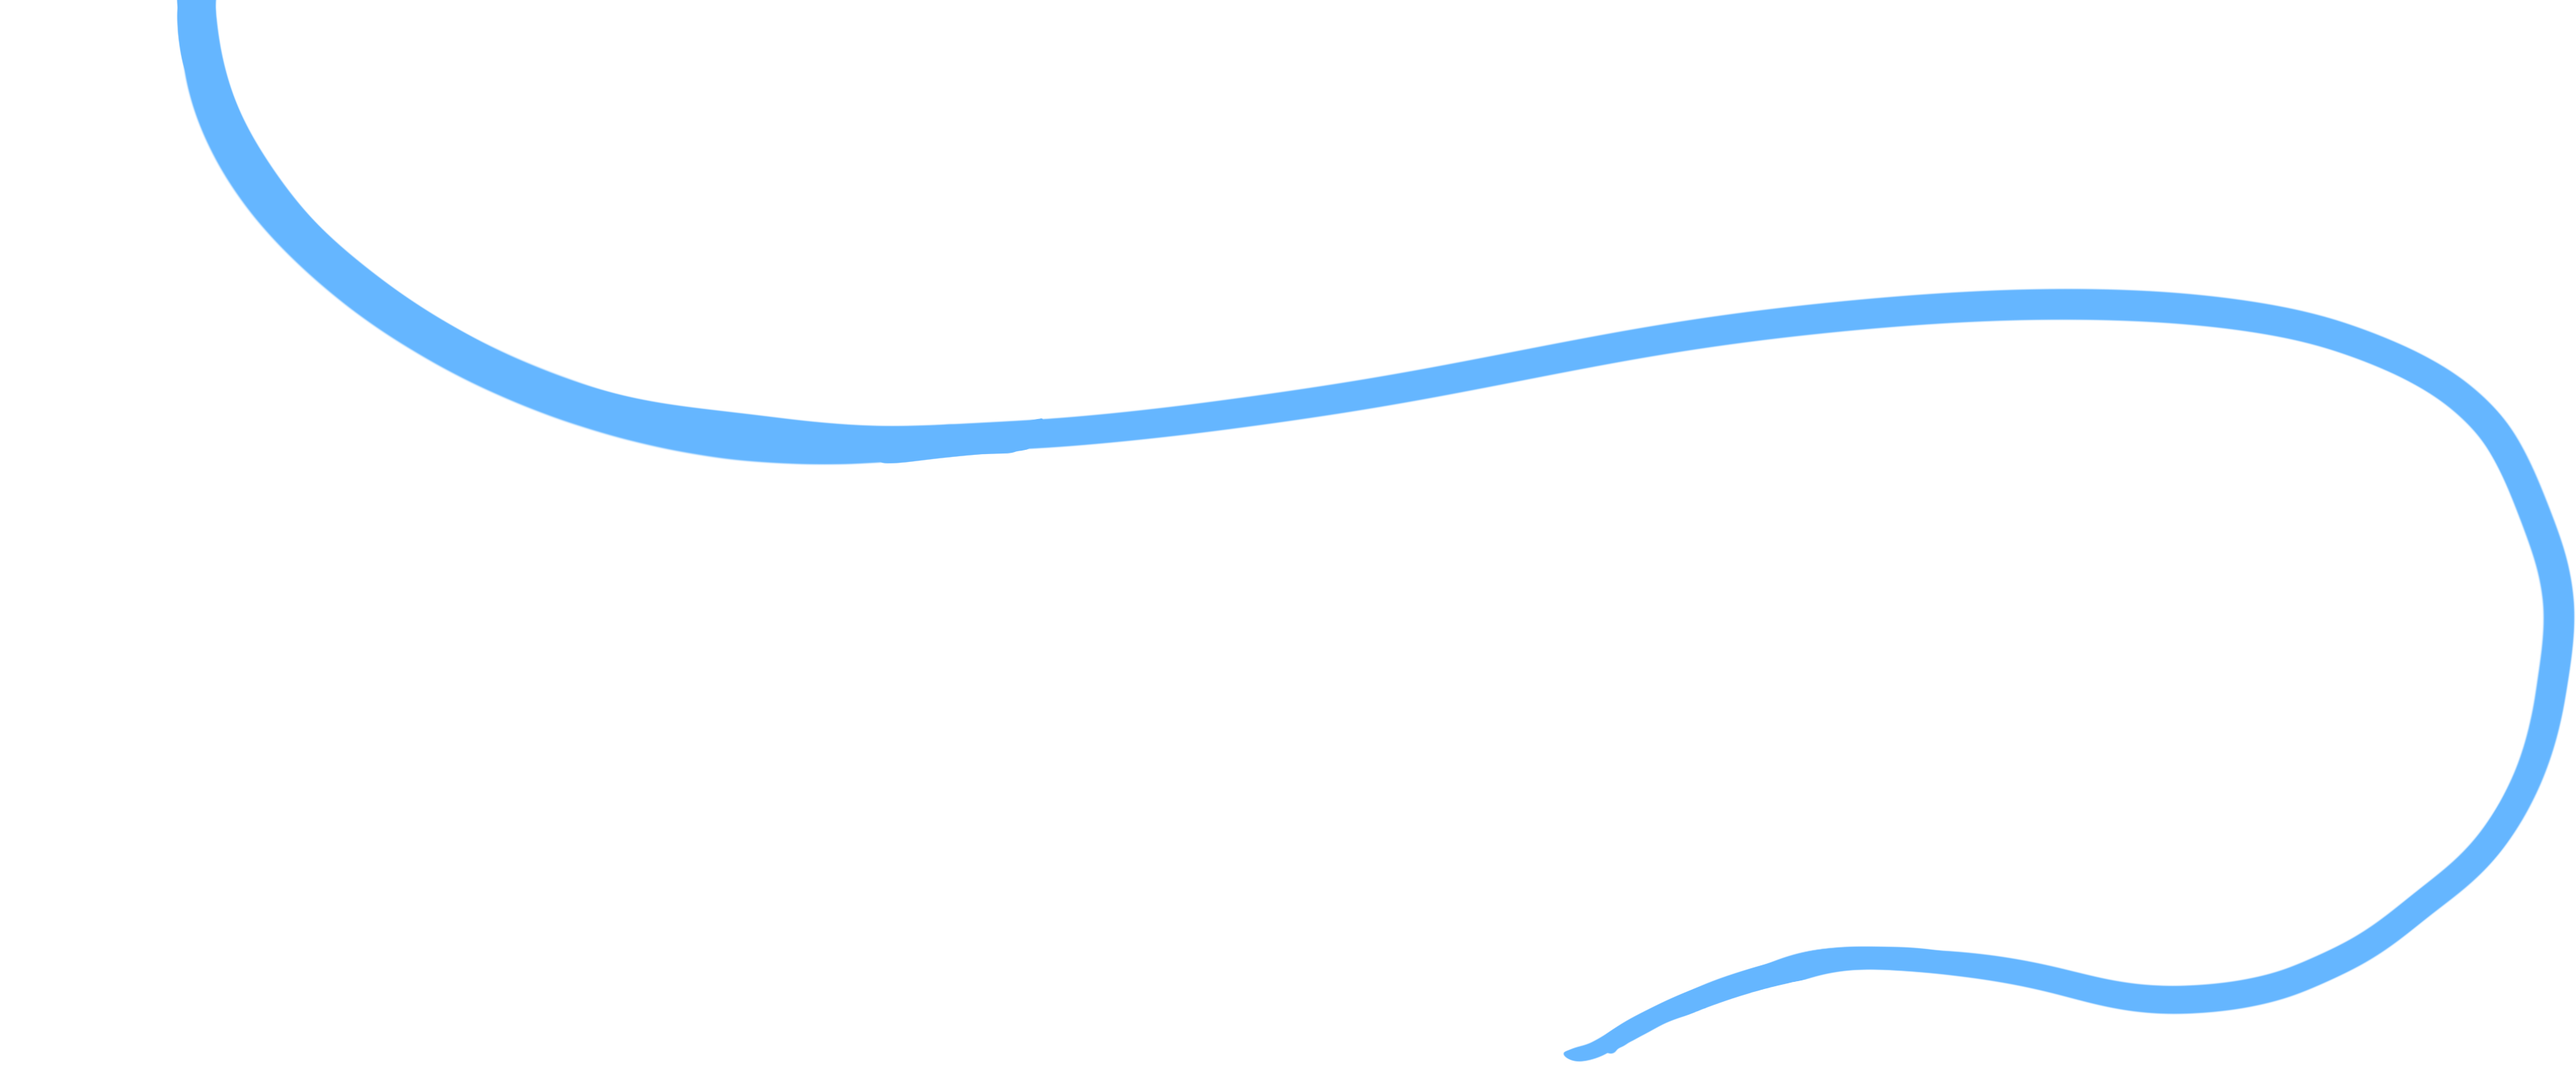
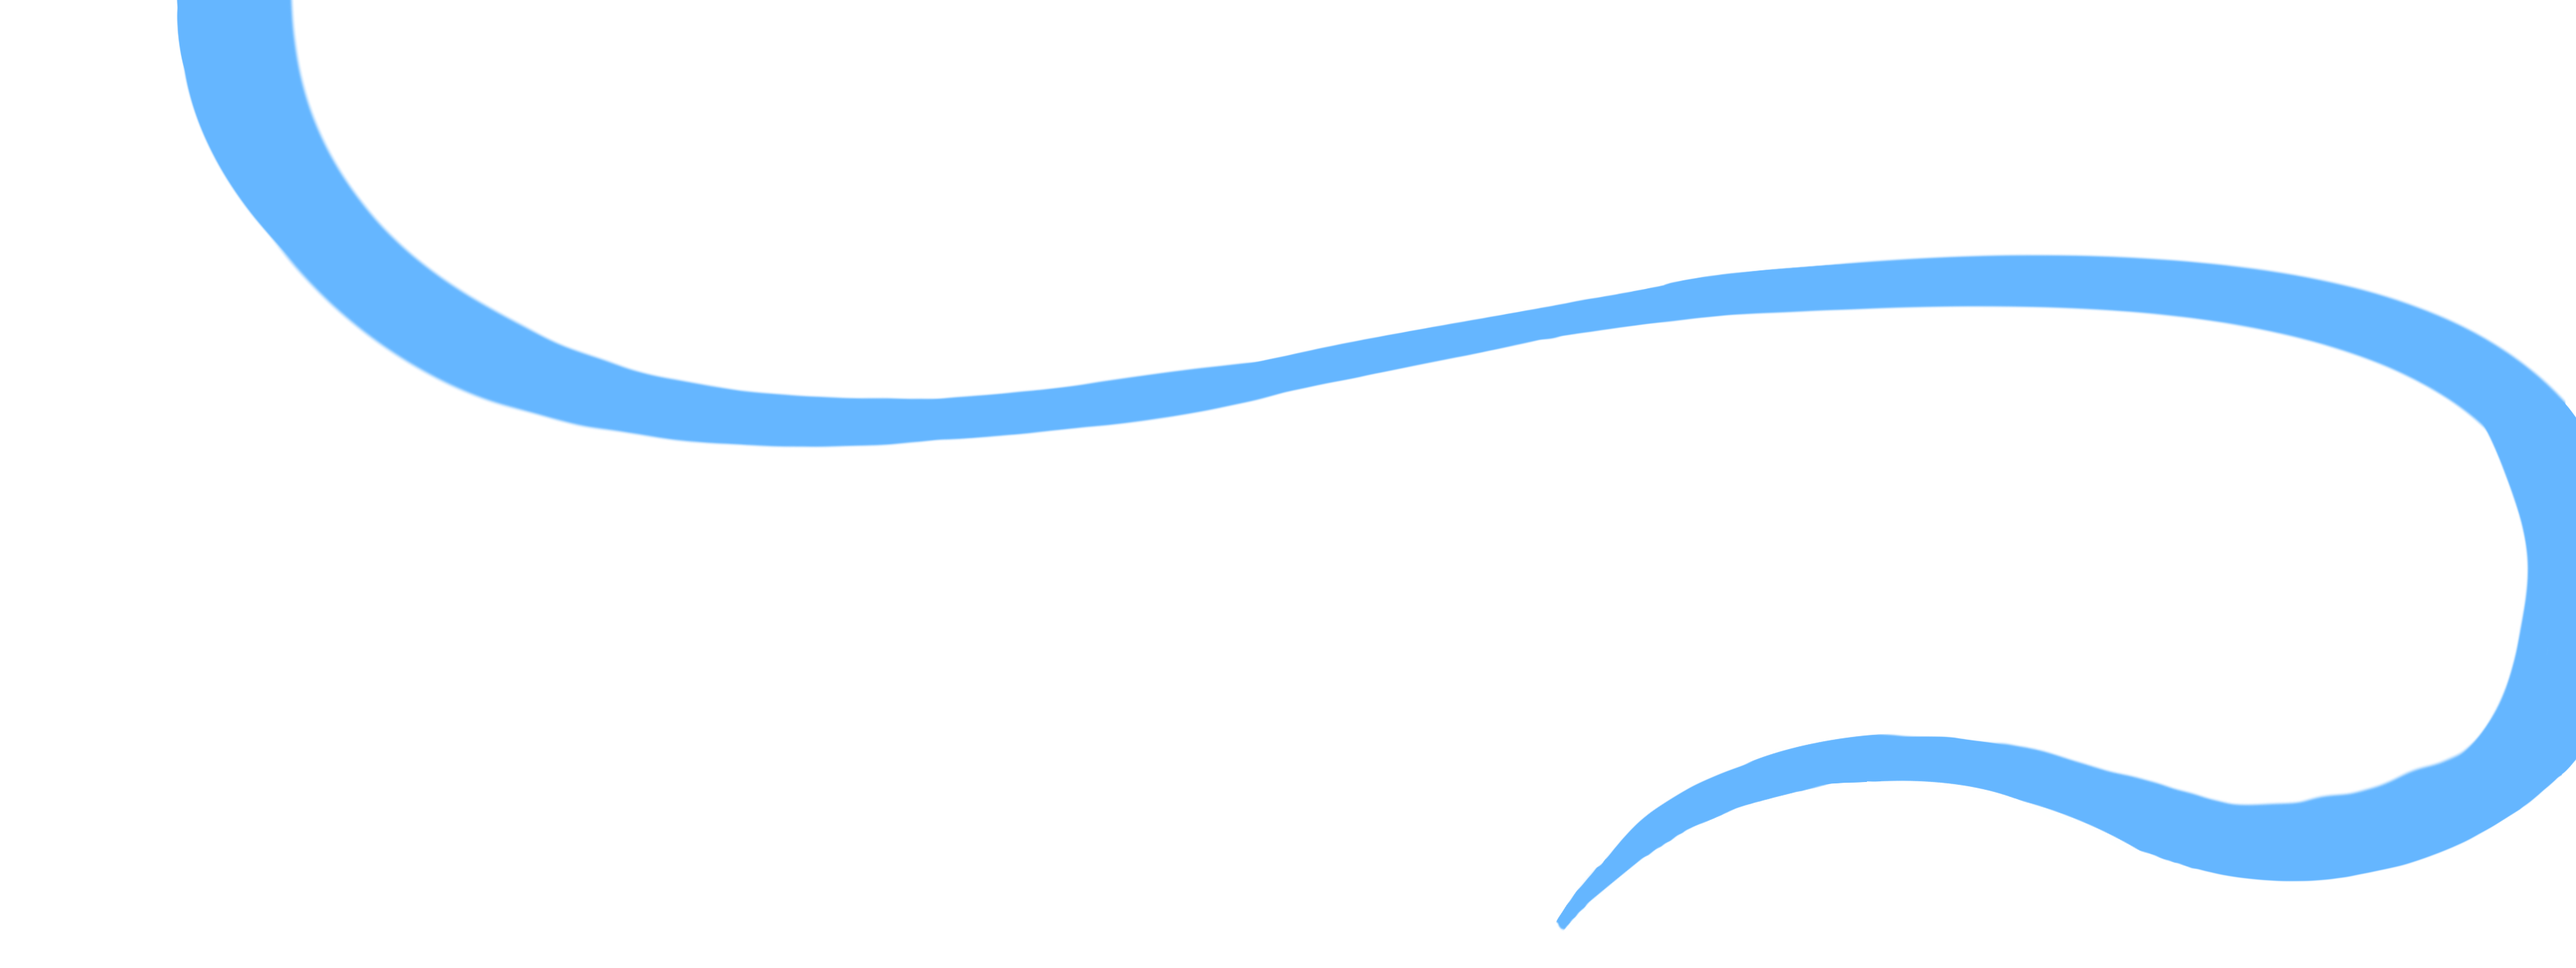
system js and asset

Changed region(s): [[0.5911, 0.2483, 1.0, 0.9933], [0.0622, 0.0, 0.6222, 0.4656]]

diff --git a/Self_System/script.js b/Self_System/script.js
@@ -1,19 +1,22 @@
 let inputText;      // input field where user types a number
-let category;       // dropdown to select "romantic" or "sad"
+let category;       // dropdown to select "romantic", "sad", "happy"
 
 let heart;          // heart image
 let droplet;        // droplet/square image
+let sun;            // sun image
 
 let redBkg, blueBkg;       // background images
 let redLine, redGlow;      // red line and glow
 let blueLine, blueGlow;    // blue line and glow
+let yellowLine, yellowGlow; // yellow line and glow
 
-let activeLine = "red";    // current page ("red" or "blue")
+let activeLine = "red";    // current page ("red", "blue", "yellow")
 
-// Stores data for red and blue pages
+// Stores data for red, blue, yellow pages
 let data = {
-  red: { heartTotal: 0, squareTotal: 0, bigHearts: [], smallHearts: [], bigDroplet: [], smallDroplet: [] },
-  blue: { heartTotal: 0, squareTotal: 0, bigHearts: [], smallHearts: [], bigDroplet: [], smallDroplet: [] }
+  red:    { heartTotal: 0, squareTotal: 0, bigHearts: [], smallHearts: [], bigDroplet: [], smallDroplet: [], bigSun: [], smallSun: [] },
+  blue:   { heartTotal: 0, squareTotal: 0, bigHearts: [], smallHearts: [], bigDroplet: [], smallDroplet: [], bigSun: [], smallSun: [] },
+  yellow: { heartTotal: 0, squareTotal: 0, bigHearts: [], smallHearts: [], bigDroplet: [], smallDroplet: [], bigSun: [], smallSun: [] }
 };
 
 function preload() {
@@ -25,8 +28,13 @@ function preload() {
   blueLine = loadImage("../asset/system/blue.PNG");
   blueGlow = loadImage("../asset/system/blueGlow.PNG");
 
+  yellowLine = loadImage("../asset/system/yellow.PNG");
+  yellowGlow = loadImage("../asset/system/yellowGlow.PNG");
+  yellowBkg= loadImage("../asset/system/yellowBkg.JPG")
+
   heart = loadImage("../asset/system/heart.webp");
   droplet = loadImage("../asset/system/droplet.webp");
+  sun = loadImage("../asset/system/sun.PNG"); // add your sun asset
 }
 
 function setup() {
@@ -36,16 +44,16 @@ function setup() {
   category = createSelect();
   category.option("romantic");
   category.option("sad");
-  category.position(950, height / 2.4);
+  category.option("happy"); // new category
+  category.position(980, height / 2.4);
   category.style('font-size', '18px');
   category.style('border-radius', '10px');
-  category.style('border', '2px solid #333');
   category.style('background-color', 'lightblue');
 
   // Input box
   inputText = createInput();
   inputText.size(110, 30);
-  inputText.position(950, height / 2.2);
+  inputText.position(970, height / 2.2);
   inputText.style('background-color', '#F7C9C0');
   inputText.style('border', '2px solid #A3BFD9');
   inputText.style('color', '#7A9BAE');
@@ -53,43 +61,50 @@ function setup() {
   inputText.style('border-radius', '10px');
 
   // Load totals from localStorage
-  data.red.heartTotal = Number(localStorage.getItem('red_heartTotal')) || 0;
-  data.red.squareTotal = Number(localStorage.getItem('red_squareTotal')) || 0;
-  data.blue.heartTotal = Number(localStorage.getItem('blue_heartTotal')) || 0;
-  data.blue.squareTotal = Number(localStorage.getItem('blue_squareTotal')) || 0;
+  for (let key of ["red", "blue", "yellow"]) {
+    data[key].heartTotal = Number(localStorage.getItem(`${key}_heartTotal`)) || 0;
+    data[key].squareTotal = Number(localStorage.getItem(`${key}_squareTotal`)) || 0;
+    data[key].sunTotal = Number(localStorage.getItem(`${key}_sunTotal`)) || 0;
 
-  // Initialize heart and droplet positions
-  updateHeartPositions(data.red);
-  updateDropletPositions(data.red);
-  updateHeartPositions(data.blue);
-  updateDropletPositions(data.blue);
+    updateHeartPositions(data[key]);
+    updateDropletPositions(data[key]);
+    updateSunPositions(data[key]);
+  }
 }
 
 function draw() {
   let page = data[activeLine];
 
-  // Background
-  background(activeLine === "red" ? redBkg : blueBkg);
+  // Backgrounds
+  if (activeLine === "red") background(redBkg);
+  if (activeLine === "blue") background(blueBkg);
+  if (activeLine === "yellow") background(yellowBkg); // placeholder if no image
 
   // Red line
-  if (page.heartTotal > page.squareTotal) {
+  if (page.heartTotal > page.squareTotal && page.heartTotal > (page.sunTotal || 0)) {
     image(redGlow, 0, 0, width, height / 1.9);
   } else {
     image(redLine, 0, 0, width, height / 1.9);
   }
 
   // Blue line
-  if (page.squareTotal > page.heartTotal) {
-    image(blueGlow, 0, 0, width, height / 1.8);
+  if (page.squareTotal > page.heartTotal && page.squareTotal > (page.sunTotal || 0)) {
+    image(blueGlow, 0, 0, width, height / 2);
   } else {
-    image(blueLine, 0, 0, width, height / 2.2);
+    image(blueLine, 0, 0, width, height / 2);
+  }
+
+  // Yellow line
+  if ((page.sunTotal || 0) > page.heartTotal && (page.sunTotal || 0) > page.squareTotal) {
+    image(yellowGlow, 0, 0, width, height / 2.5);
+  } else {
+    image(yellowLine, 0, 0, width, height / 2.5);
   }
 
   // Draw big hearts
   for (let pos of page.bigHearts) {
     image(heart, pos.x, pos.y, 100, 100);
   }
-
   // Draw small hearts
   for (let pos of page.smallHearts) {
     image(heart, pos.x, pos.y, 40, 40);
@@ -99,10 +114,18 @@ function draw() {
   for (let pos of page.bigDroplet) {
     image(droplet, pos.x, pos.y, 100, 100);
   }
-
   // Draw small droplets
   for (let pos of page.smallDroplet) {
     image(droplet, pos.x, pos.y, 40, 40);
+  }
+
+  // Draw big suns
+  for (let pos of page.bigSun) {
+    image(sun, pos.x, pos.y, 150, 150);
+  }
+  // Draw small suns
+  for (let pos of page.smallSun) {
+    image(sun, pos.x, pos.y, 60, 60);
   }
 }
 
@@ -110,33 +133,29 @@ function keyPressed() {
   if (keyCode === ENTER) {
     submit(); // add input
   } else if (key === " ") {
-    activeLine = activeLine === "red" ? "blue" : "red"; // switch pages
-  } else if (key === "C" || key === "c") {  // press C to clear all
-    // Reset data in memory
-    data.red.heartTotal = 0;
-    data.red.squareTotal = 0;
-    data.red.bigHearts = [];
-    data.red.smallHearts = [];
-    data.red.bigDroplet = [];
-    data.red.smallDroplet = [];
-
-    data.blue.heartTotal = 0;
-    data.blue.squareTotal = 0;
-    data.blue.bigHearts = [];
-    data.blue.smallHearts = [];
-    data.blue.bigDroplet = [];
-    data.blue.smallDroplet = [];
-
-    // Clear localStorage
-    localStorage.removeItem('red_heartTotal');
-    localStorage.removeItem('red_squareTotal');
-    localStorage.removeItem('blue_heartTotal');
-    localStorage.removeItem('blue_squareTotal');
-
+    // cycle pages red -> blue -> yellow
+    if (activeLine === "red") activeLine = "blue";
+    else if (activeLine === "blue") activeLine = "yellow";
+    else activeLine = "red";
+  } else if (key === "C" || key === "c") {
+    // Reset all
+    for (let key of ["red", "blue", "yellow"]) {
+      data[key].heartTotal = 0;
+      data[key].squareTotal = 0;
+      data[key].sunTotal = 0;
+      data[key].bigHearts = [];
+      data[key].smallHearts = [];
+      data[key].bigDroplet = [];
+      data[key].smallDroplet = [];
+      data[key].bigSun = [];
+      data[key].smallSun = [];
+      localStorage.removeItem(`${key}_heartTotal`);
+      localStorage.removeItem(`${key}_squareTotal`);
+      localStorage.removeItem(`${key}_sunTotal`);
+    }
     console.log("All data cleared!");
   }
 }
-
 
 function submit() {
   let text = inputText.value();
@@ -151,13 +170,17 @@ function submit() {
     } else if (choice === "sad") {
       page.squareTotal += number;
       updateDropletPositions(page);
+    } else if (choice === "happy") {
+      page.sunTotal = (page.sunTotal || 0) + number;
+      updateSunPositions(page);
     }
 
-    // Save totals to localStorage
-    localStorage.setItem('red_heartTotal', data.red.heartTotal);
-    localStorage.setItem('red_squareTotal', data.red.squareTotal);
-    localStorage.setItem('blue_heartTotal', data.blue.heartTotal);
-    localStorage.setItem('blue_squareTotal', data.blue.squareTotal);
+    // Save to localStorage
+    for (let key of ["red", "blue", "yellow"]) {
+      localStorage.setItem(`${key}_heartTotal`, data[key].heartTotal);
+      localStorage.setItem(`${key}_squareTotal`, data[key].squareTotal);
+      localStorage.setItem(`${key}_sunTotal`, data[key].sunTotal || 0);
+    }
   }
 
   inputText.value("");
@@ -166,29 +189,41 @@ function submit() {
 function updateHeartPositions(page) {
   let bigHeartsNeeded = Math.floor(page.heartTotal / 10);
   let smallHeartsNeeded = page.heartTotal % 10;
+  let margin = 40;
 
   while (page.bigHearts.length < bigHeartsNeeded) {
-    page.bigHearts.push({ x: random(100, width - 100), y: random(100, height - 100) });
+    page.bigHearts.push({ x: random(margin, width - 100 - margin), y: random(margin, height - 100 - margin) });
   }
   while (page.smallHearts.length < smallHeartsNeeded) {
-    page.smallHearts.push({ x: random(50, width - 50), y: random(50, height - 50) });
+    page.smallHearts.push({ x: random(margin, width - 40 - margin), y: random(margin, height - 40 - margin) });
   }
-  while (page.smallHearts.length > smallHeartsNeeded) {
-    page.smallHearts.pop();
-  }
+  while (page.smallHearts.length > smallHeartsNeeded) page.smallHearts.pop();
 }
 
 function updateDropletPositions(page) {
   let bigDropletNeeded = Math.floor(page.squareTotal / 10);
   let smallDropletNeeded = page.squareTotal % 10;
+  let margin = 40;
 
   while (page.bigDroplet.length < bigDropletNeeded) {
-    page.bigDroplet.push({ x: random(100, width - 100), y: random(100, height - 100) });
+    page.bigDroplet.push({ x: random(margin, width - 100 - margin), y: random(margin, height - 100 - margin) });
   }
   while (page.smallDroplet.length < smallDropletNeeded) {
-    page.smallDroplet.push({ x: random(50, width - 50), y: random(50, height - 50) });
+    page.smallDroplet.push({ x: random(margin, width - 40 - margin), y: random(margin, height - 40 - margin) });
   }
-  while (page.smallDroplet.length > smallDropletNeeded) {
-    page.smallDroplet.pop();
+  while (page.smallDroplet.length > smallDropletNeeded) page.smallDroplet.pop();
+}
+
+function updateSunPositions(page) {
+  let bigSunNeeded = Math.floor((page.sunTotal || 0) / 10);
+  let smallSunNeeded = (page.sunTotal || 0) % 10;
+  let margin = 40;
+
+  while (page.bigSun.length < bigSunNeeded) {
+    page.bigSun.push({ x: random(margin, width - 100 - margin), y: random(margin, height - 100 - margin) });
   }
+  while (page.smallSun.length < smallSunNeeded) {
+    page.smallSun.push({ x: random(margin, width - 40 - margin), y: random(margin, height - 40 - margin) });
+  }
+  while (page.smallSun.length > smallSunNeeded) page.smallSun.pop();
 }
